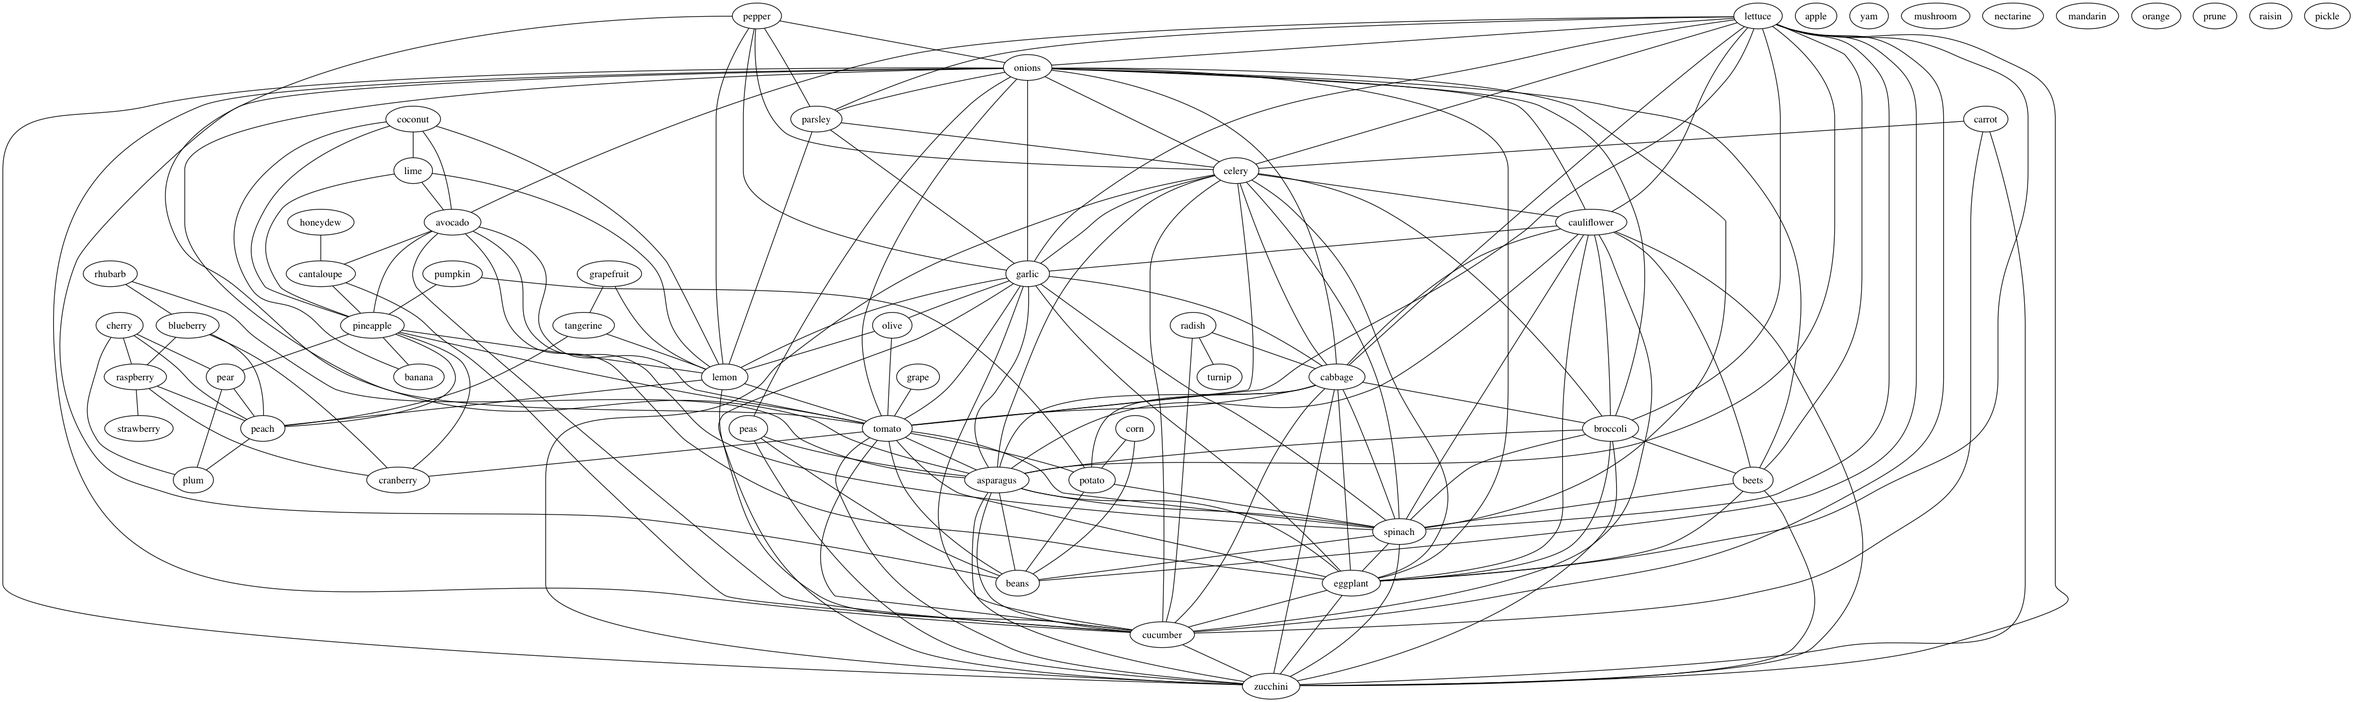
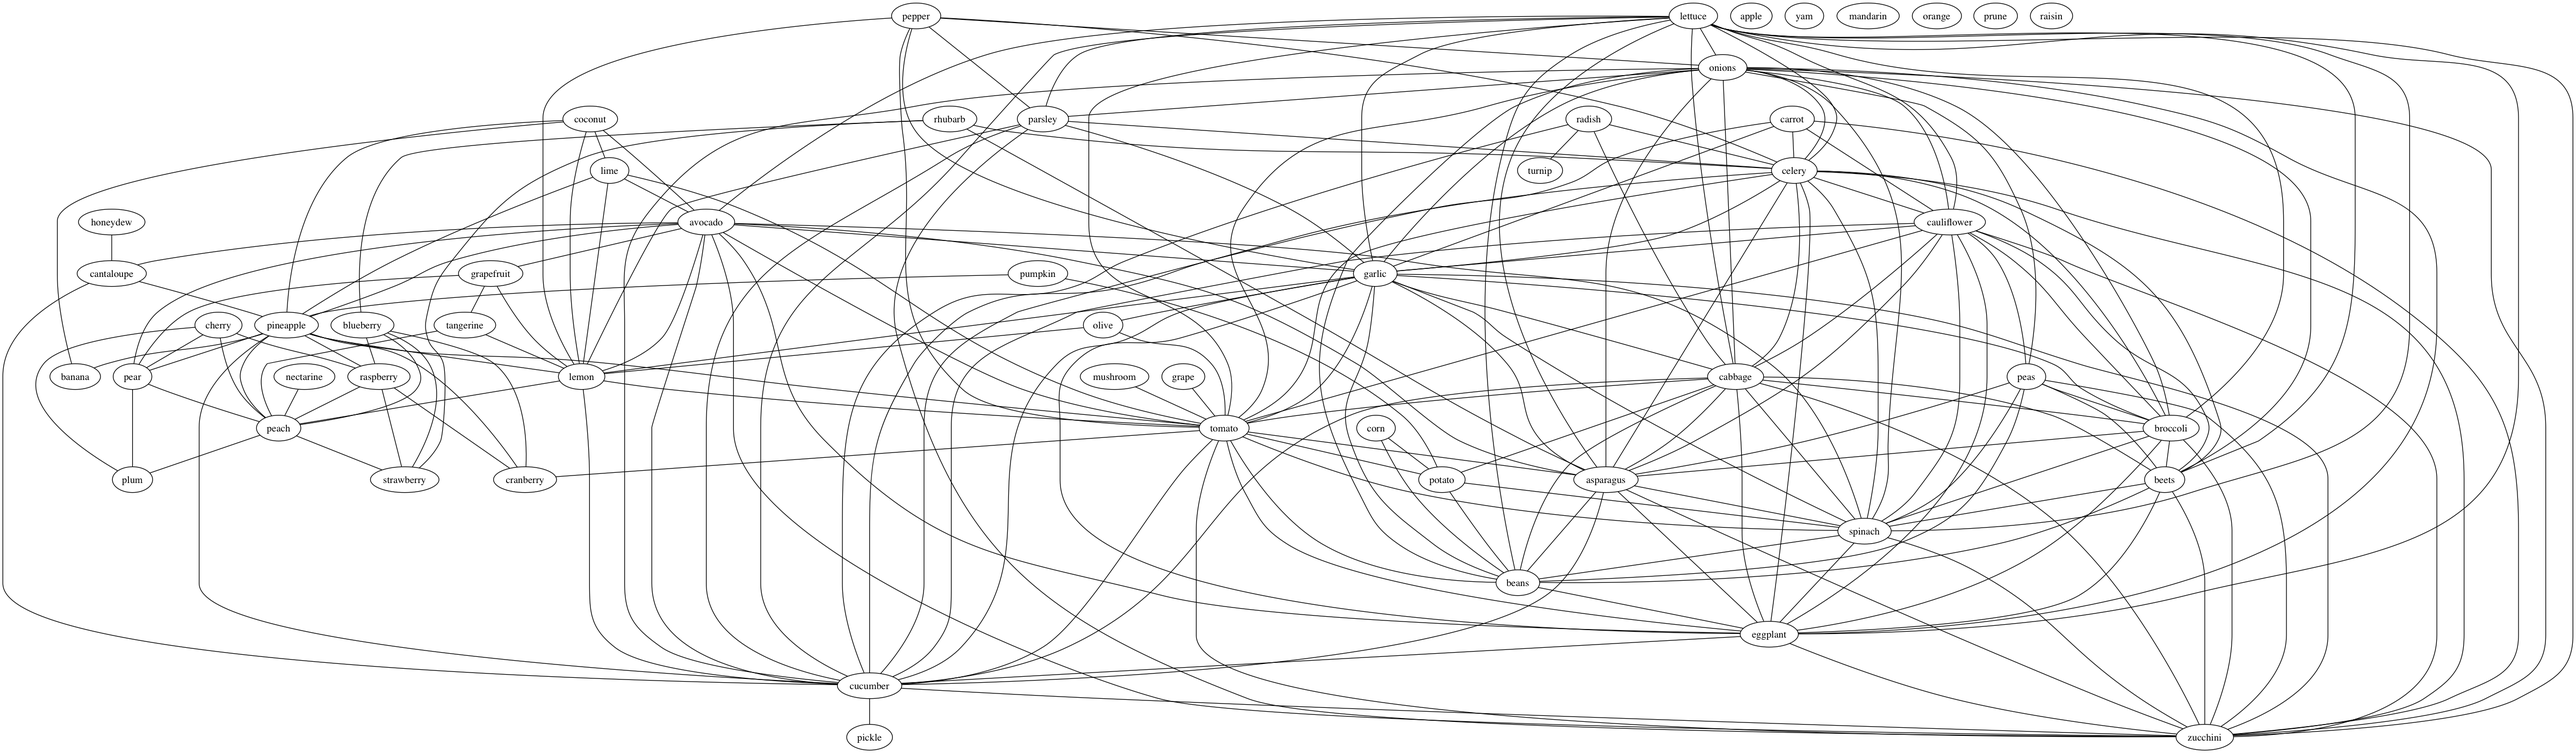
Adjusted so that graphs are based on num of edges = 200

diff --git a/subgraphs/subgraph_gen.py b/subgraphs/subgraph_gen.py
@@ -7,21 +7,29 @@ on cosine similarities of words.
 - input: cosine simlarities and vocabulary
 - output: graph png
 
+Note: 
+I would use "weight" as an edge attribute but that
+makes the visualization look funny.
+"weight" will be helpful for
+running some NetworkX algorithms.
 """
 
 import networkx as nx
 from collections import defaultdict
 from nxpd import draw
+import operator
 
-# # uncomment for GloVe data
-# INPUT_FILE = "./fruitveg/fruitveg_sim_glove.txt"
-# VOCAB = "./fruitveg/vocab_fruitveg.txt"
-# OUTPUT_GRAPH = "./fruitveg/fruitveg_out_glove.png"
+NUM_EDGES = 200
+
+# uncomment for GloVe data
+INPUT_FILE = "./fruitveg/fruitveg_sim_glove.txt"
+VOCAB = "./fruitveg/vocab_fruitveg.txt"
+OUTPUT_GRAPH = "./fruitveg/fruitveg_out_glove" + str(NUM_EDGES) + ".png"
 
 # uncomment for McRae data
-INPUT_FILE = "./fruitveg/fruitveg_sim_mcrae.txt"
-VOCAB = "./fruitveg/vocab_fruitveg.txt"
-OUTPUT_GRAPH = "./fruitveg/fruitveg_out_mcrae.png"
+# INPUT_FILE = "./fruitveg/fruitveg_sim_mcrae.txt"
+# VOCAB = "./fruitveg/vocab_fruitveg.txt"
+# OUTPUT_GRAPH = "./fruitveg/fruitveg_out_mcrae" + str(NUM_EDGES) + ".png"
 
 def get_cosine_dist():
 	d = defaultdict(float)
@@ -39,14 +47,13 @@ def main():
 	vocab_file = open(VOCAB, 'r')
 	for line in vocab_file:
 		g.add_node(line.strip())
-	for pair in cosine_dists:
-		if cosine_dists[pair] > 0.5:
-			g.add_edge(pair[0], pair[1])
-			# I would use "weight" but that
-			# makes the visualization look funny
-			# "weight" will be helpful for
-			# running some NetworkX algorithms
-			g[pair[0]][pair[1]]["w"] = cosine_dists[pair]
+	sorted_cosine_dists = sorted(cosine_dists.items(),
+		key=operator.itemgetter(1), reverse=True)
+	for i in range(NUM_EDGES):
+		tup = sorted_cosine_dists[i]
+		pair = tup[0]
+		g.add_edge(pair[0], pair[1])
+		g[pair[0]][pair[1]]["w"] = tup[1]
 
 	draw(g, filename=OUTPUT_GRAPH)
 
